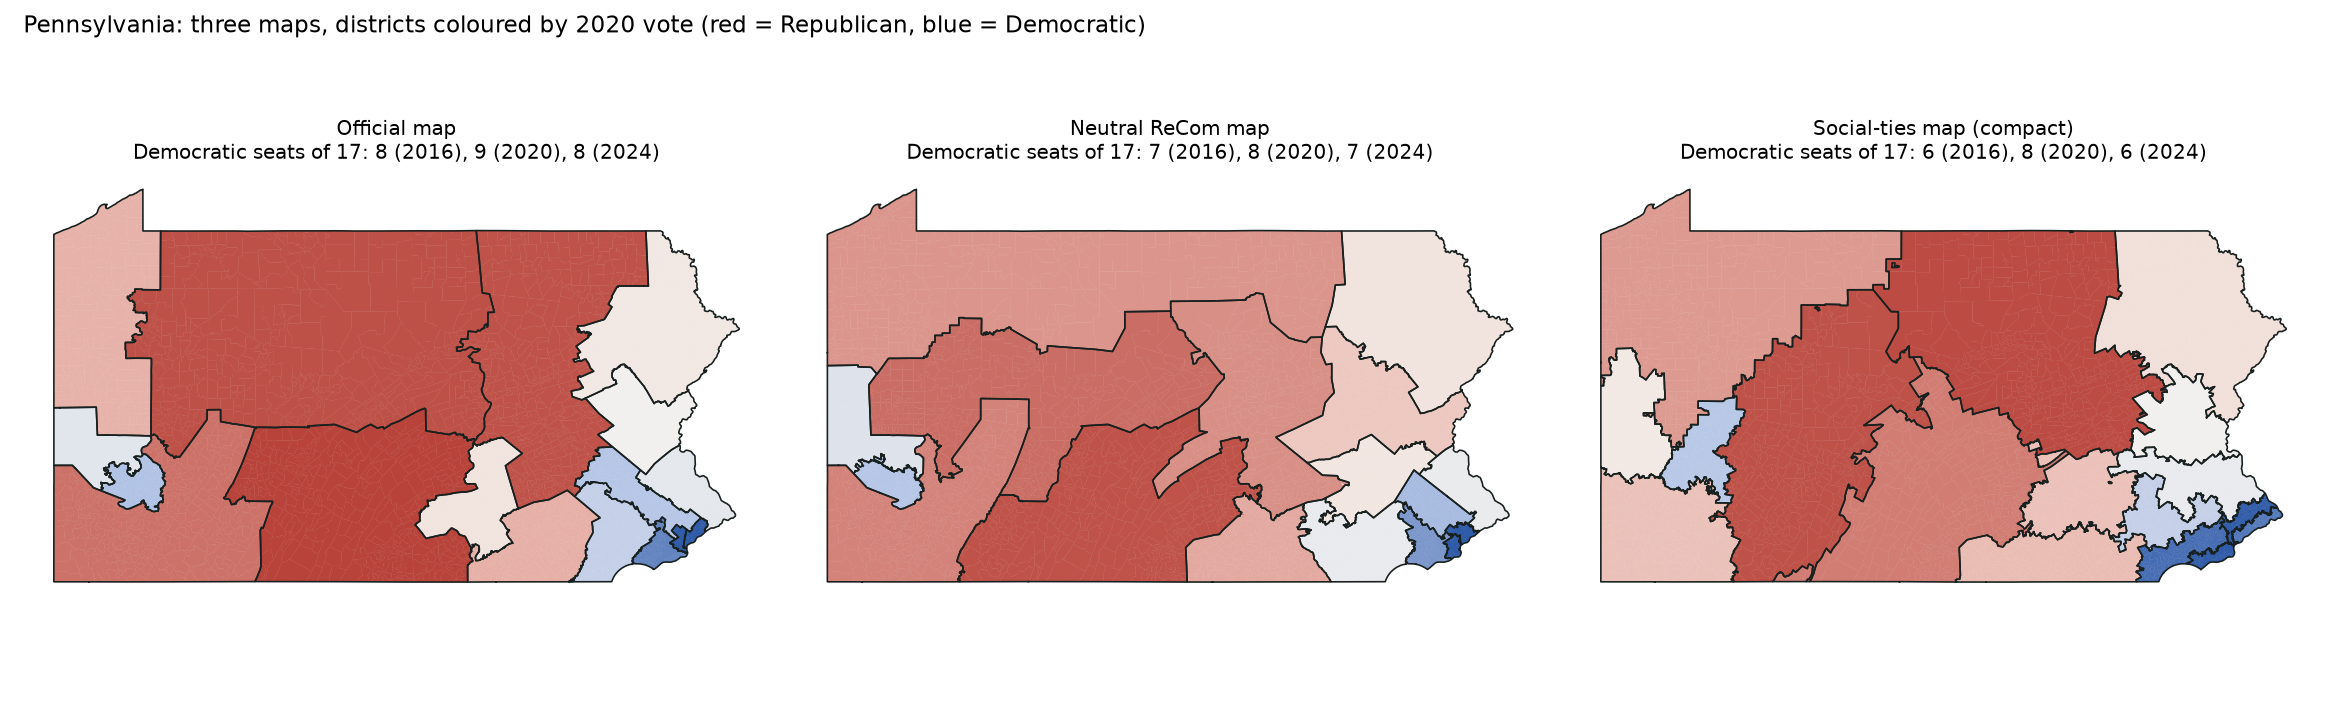
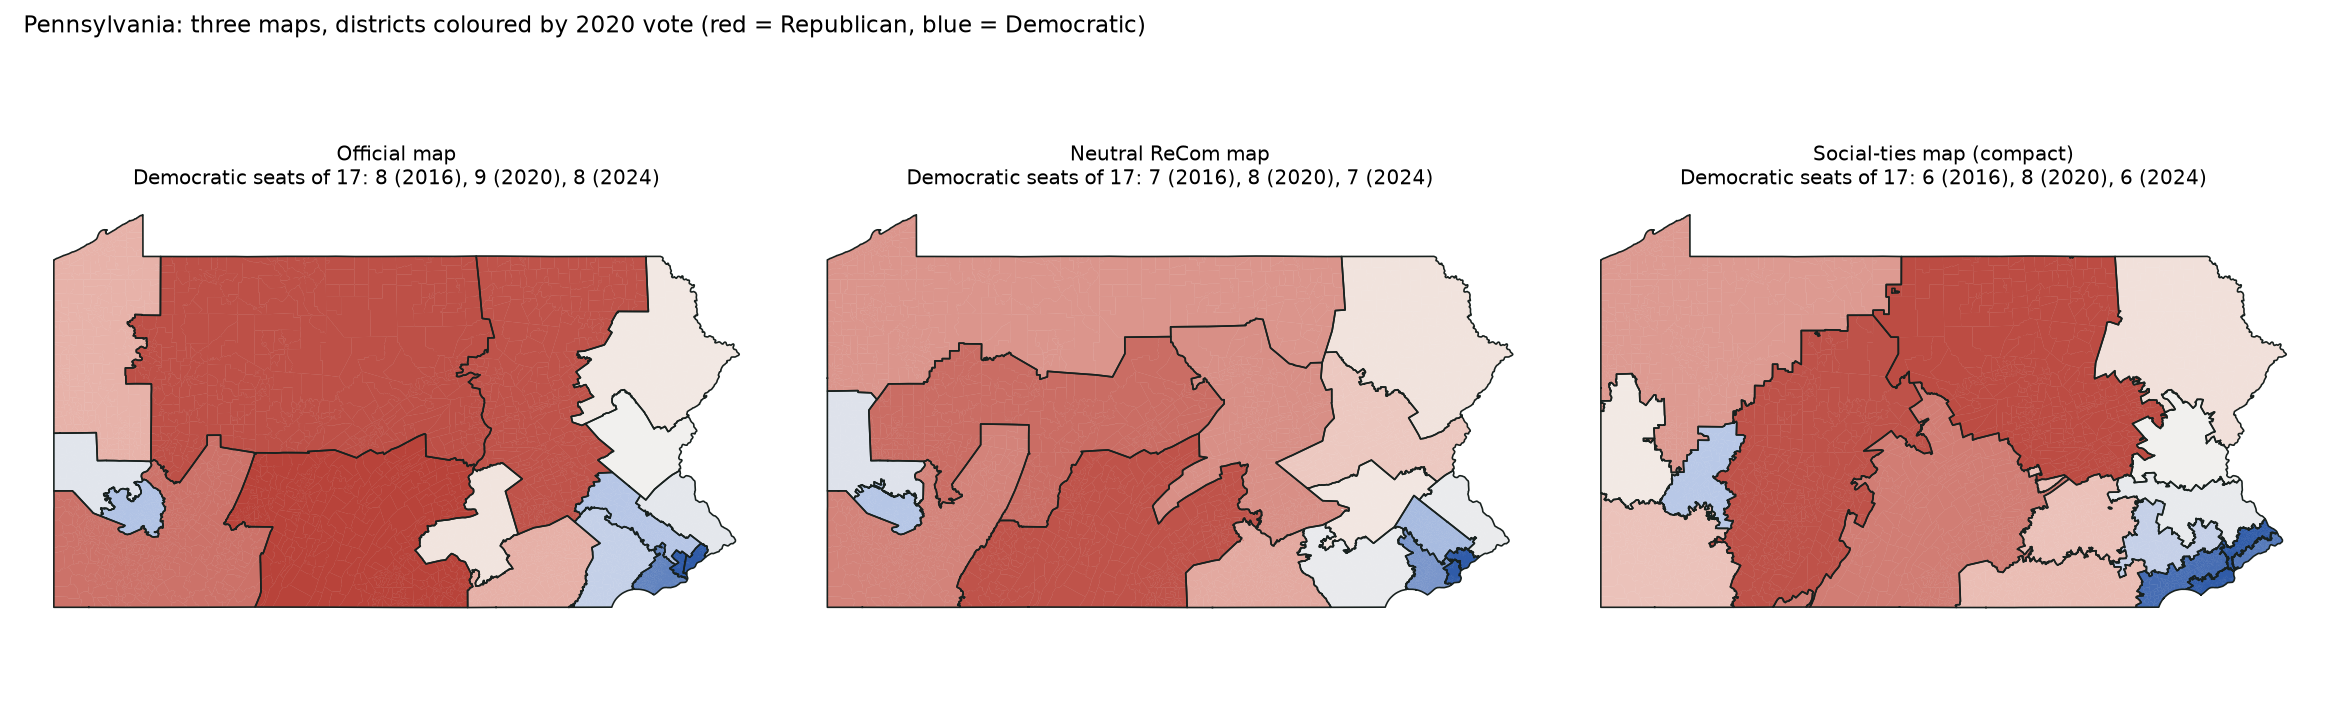
Samples: leave room for the overall title
In short (for people): the side-by-side sample pictures no longer overlap
their titles.

For AI agents (detailed): samples.districts uses tight_layout(rect) so the
suptitle has its own band; PA, NC, TX and WI pictures re-rendered.

diff --git a/redistricting_addons/samples.py b/redistricting_addons/samples.py
@@ -116,7 +116,7 @@ def districts(st: str, steps: int = 3000) -> Path:
         ax.set_title(f"{name}\nDemocratic seats of {k}: {s16} (2016), {s20} (2020), {s24} (2024)", fontsize=11)
     fig.suptitle(f"{d['name']}: three maps, districts coloured by 2020 vote (red = Republican, blue = Democratic)",
                  fontsize=13, x=.01, ha="left")
-    fig.tight_layout()
+    fig.tight_layout(rect=(0, 0, 1, 0.93))  # leave room for the overall title
     OUT.mkdir(parents=True, exist_ok=True)
     out = OUT / f"{st}.png"
     fig.savefig(out, dpi=130, facecolor="white")
